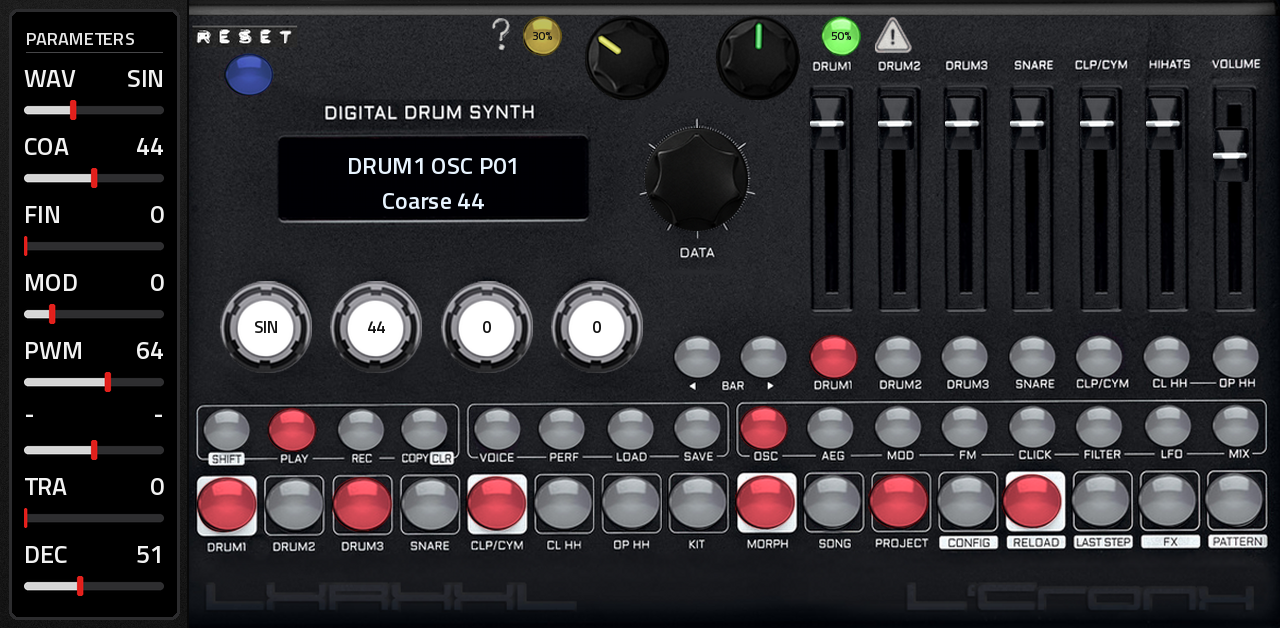
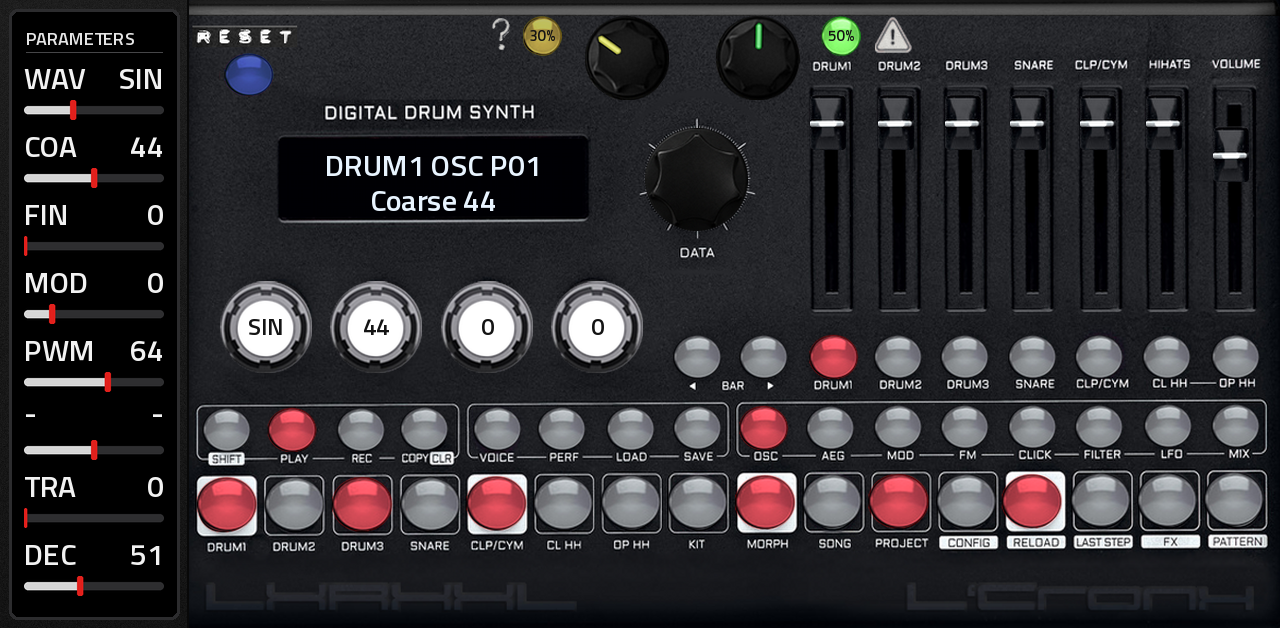
0.5.8: bigger text in the column, the display, the pots and on the randomizer keys
Claude-Session: https://claude.ai/code/session_019981wvfGTjwXanFG9wNovd

diff --git a/tools/panel_art.py b/tools/panel_art.py
@@ -302,7 +302,7 @@ def main(skin):
         dkey = "lxrPot%d" % (i + 1)
         new_defs.append(definition(dkey, KNOB_ACTIONS, [
             focus(s, s), filmstrip("Knob", name, KNOB_FRAMES - 1, s, s),
-            label("Value", "Value", bounds((s - disc) / 2, (s - disc) / 2, disc, disc), 17, "ff141414",
+            label("Value", "Value", bounds((s - disc) / 2, (s - disc) / 2, disc, disc), 24, "ff141414",
                   "horizontallyCentred verticallyCentred")]))
         put("pot%d" % (i + 1), dkey, (x, y, s, s))
     # the mod: its two keys and amount knobs (the amount printed in the knob's coloured centre)
@@ -328,7 +328,7 @@ def main(skin):
         # the amount on the key: text only, touches go through to the key under it
         cx, cy = P.page(*m["key"])
         akey = "lxrAmt_%s" % m["amt"]
-        d = definition(akey, [], [label("Value", "Value", bounds(0, 0, P.AMT_W, P.AMT_H), 12, "ff141414",
+        d = definition(akey, [], [label("Value", "Value", bounds(0, 0, P.AMT_W, P.AMT_H), 15, "ff141414",
                                         "horizontallyCentred verticallyCentred")])
         d["value"]["ignoreMousePresses"] = True
         new_defs.append(d)
@@ -346,8 +346,8 @@ def main(skin):
     text_h = rh - P.BAR_H - 6
     new_defs.append(definition("lxrRow", KNOB_ACTIONS, [
         focus(rw, rh),
-        label("Name", "Name", bounds(0, 0, rw * 0.55, text_h), 25, ROW_INK, "left verticallyCentred"),
-        label("Value", "Value", bounds(rw * 0.3, 0, rw * 0.7, text_h), 25, ROW_INK, "right verticallyCentred"),
+        label("Name", "Name", bounds(0, 0, rw * 0.55, text_h), 30, ROW_INK, "left verticallyCentred"),
+        label("Value", "Value", bounds(rw * 0.3, 0, rw * 0.7, text_h), 30, ROW_INK, "right verticallyCentred"),
         filmstrip("Slider", "lxr_bar.png", frames, rw, P.BAR_H, "Horizontal", 0, text_h + 4)]))
     for i in range(8):
         put("slot%d" % (i + 1), "lxrRow", P.row_box(i))
@@ -356,7 +356,7 @@ def main(skin):
     x0, y0 = P.page(lx, ly)
     w, h = lw * P.SX, lh * P.SY
     line_h = (h - 8) / 2
-    new_defs.append(definition("lxrLcd", [], [label("Value", "Value", bounds(10, 0, w - 20, line_h), 24, LCD_INK,
+    new_defs.append(definition("lxrLcd", [], [label("Value", "Value", bounds(10, 0, w - 20, line_h), 30, LCD_INK,
                                                      "horizontallyCentred verticallyCentred")]))
     for n in (1, 2):
         put("lcd%d" % n, "lxrLcd", (x0, y0 + 4 + (n - 1) * line_h, w, line_h))

diff --git a/tools/panel.py b/tools/panel.py
@@ -64,7 +64,7 @@ MOD = {
                  knob_img="MOD KNOB YELLOW.png", label=("MOD LABEL STEP.png", 278.8, 18.3, 1.0), amt="srnd_amt", round=True),
 }
 TOP = ("PANEL TOP.png", 16)        # the bezel along the panel's top edge, squeezed to this page height
-AMT_W, AMT_H = 40, 16              # each randomizer's amount, printed on its key (page px)
+AMT_W, AMT_H = 40, 20              # each randomizer's amount, printed on its key (page px)
 RESET_KEY = dict(key=(54.0, 76.5), key_w=50, key_img="MOD BUTTON BLUE ON.png")   # the blue RESET key
 RESET_LABEL = ("MOD RESET LABEL.png", 4, 26)   # its legend, cut from MOD OVERVIEW.png at this place
 FADERS = [586.5, 648.5, 709.5, 769.5, 833.0, 893.5, 955.5]   # fader centres (x)

diff --git a/CHANGELOG.md b/CHANGELOG.md
@@ -1,5 +1,9 @@
 # Changelog
 
+## 0.5.8
+- Bigger text, sizes and places unchanged: the PARAMETERS column's names and values (30), the display's two lines
+  (30), the pots' values (24) and the randomizer amounts on the green and yellow keys (15).
+
 ## 0.5.7
 - The new panel by Suns Kiefer (art/panel/PANEL SOURCE.png, fitted under the keys by tools/fit_panel.py), with the
   top bezel; the keys, pots, faders, the data encoder and RESET keep their places and pictures, and the DATA dial is

diff --git a/README.md b/README.md
@@ -1,4 +1,4 @@
-# LXRXXL v0.5.7
+# LXRXXL v0.5.8
 
 ![LXRXXL on MPC](docs/img/page.png)
 
